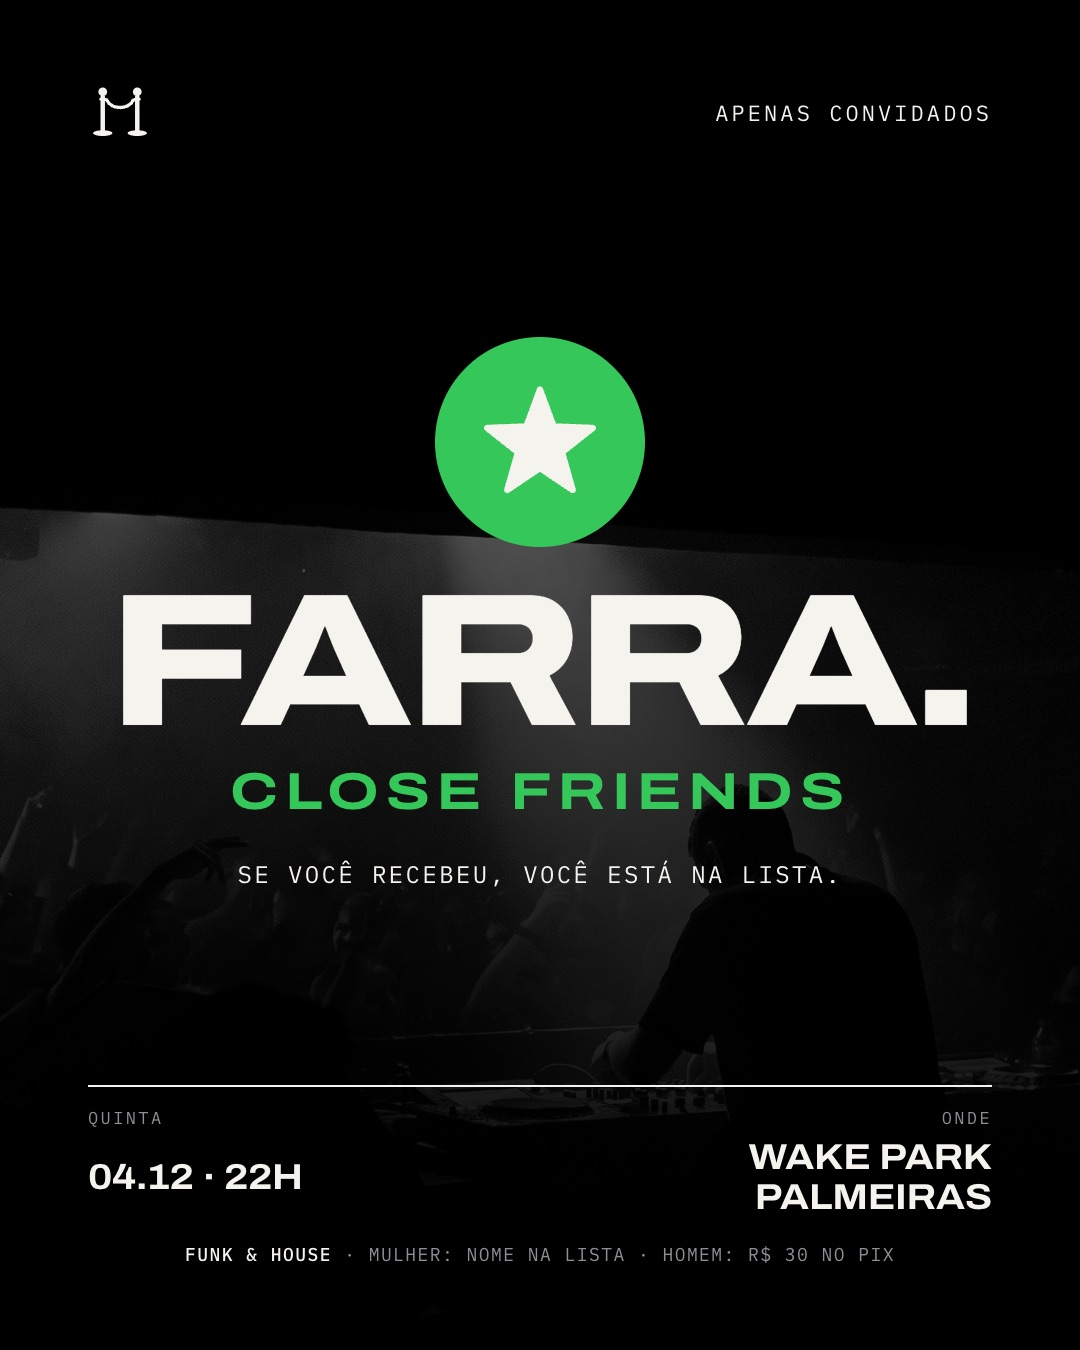
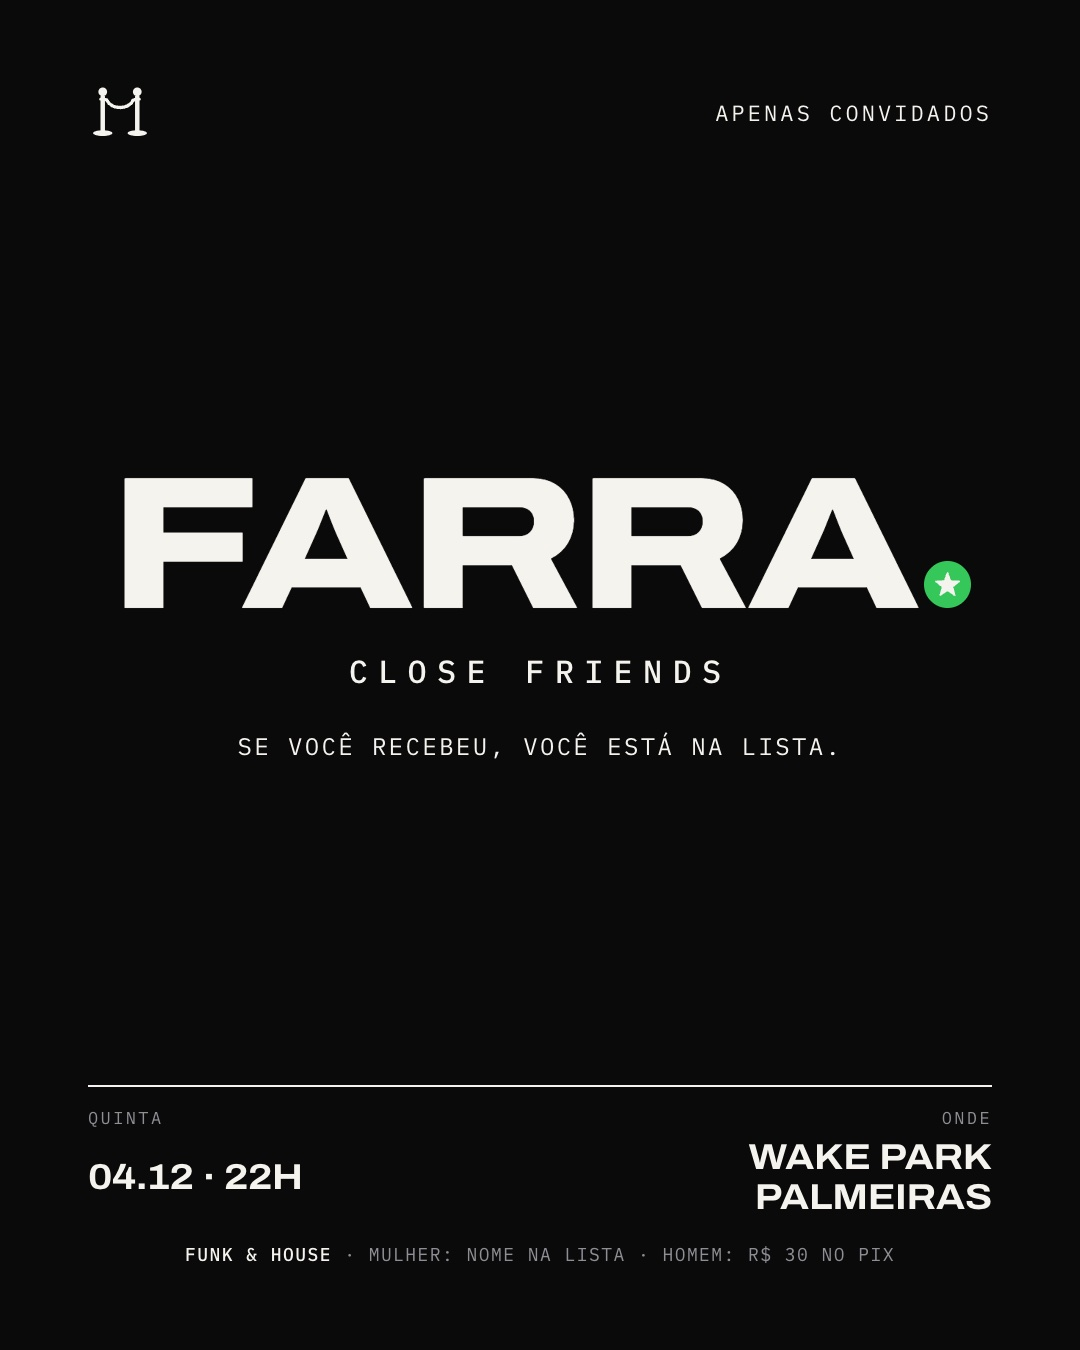
Farra Close Friends: ponto do wordmark vira o símbolo do close friends
Visual mais minimalista: sai a estrela grande e a foto de fundo, o ponto
de FARRA. passa a ser o círculo verde com estrela. A página também já
traz o envio à planilha, desligado até a URL do Apps Script entrar.

Changed region(s): [[0.0, 0.2489, 0.9167, 0.6533]]

diff --git a/public/previews/farra-close-friends/index.html b/public/previews/farra-close-friends/index.html
@@ -18,17 +18,16 @@
   :root { --preto:#0A0A0A; --carvao:#161618; --fumaca:#2A2A2D; --cinza:#8E8E93; --papel:#F5F3EE; --verde:#35C759; color-scheme: dark; }
   * { box-sizing: border-box; margin: 0; }
   body { background: var(--preto); color: var(--papel); font-family: "Archivo", "Helvetica Neue", Arial, sans-serif; font-size: 16px; line-height: 1.5; -webkit-font-smoothing: antialiased; min-height: 100svh; }
-  .fundo { position: fixed; inset: 0; background: url(/previews/farra-close-friends/fundo.jpg) 60% center/cover; filter: grayscale(1) contrast(1.1) brightness(.35); z-index: -1; }
-  .fundo::after { content: ""; position: absolute; inset: 0; background: linear-gradient(180deg, rgba(10,10,10,.85), rgba(10,10,10,.5) 40%, rgba(10,10,10,.95)); }
   main { max-width: 480px; margin: 0 auto; padding: 32px 16px 48px; display: grid; gap: 32px; }
   .mono { font-family: "IBM Plex Mono", Menlo, monospace; font-size: 13px; letter-spacing: .12em; text-transform: uppercase; }
   .topo { display: flex; justify-content: space-between; align-items: center; }
   .topo svg { width: 36px; height: 36px; color: var(--papel); }
 
   .capa { display: grid; justify-items: center; text-align: center; gap: 14px; padding-top: 16px; }
-  .capa .estrela { width: 88px; height: 88px; }
+  /* O ponto do wordmark é o símbolo do close friends. */
+  .ponto { width: .25em; height: .25em; margin-left: .05em; vertical-align: baseline; }
   h1 { font-stretch: 125%; font-weight: 800; letter-spacing: -.035em; line-height: .85; font-size: clamp(64px, 21vw, 104px); text-transform: uppercase; margin-top: 8px; }
-  .cf { font-stretch: 125%; font-weight: 700; font-size: clamp(20px, 6.4vw, 30px); letter-spacing: .12em; text-transform: uppercase; color: var(--verde); }
+  .cf { font-family: "IBM Plex Mono", Menlo, monospace; font-weight: 500; font-size: clamp(15px, 4.6vw, 20px); letter-spacing: .32em; text-transform: uppercase; }
   .capa .mono { color: var(--papel); margin-top: 6px; }
 
   .dados { display: grid; grid-template-columns: 1fr 1fr; border-top: 1px solid var(--papel); padding-top: 14px; gap: 12px; }
@@ -67,7 +66,6 @@
 </style>
 </head>
 <body>
-<div class="fundo" aria-hidden="true"></div>
 <main>
   <div class="topo">
     <svg viewBox="0 0 100 100" role="img" aria-label="Farra">
@@ -79,11 +77,7 @@
   </div>
 
   <header class="capa">
-    <svg class="estrela" viewBox="0 0 100 100" aria-hidden="true">
-      <circle cx="50" cy="50" r="50" fill="#35C759"/>
-      <polygon points="50,25 56.5,42.6 75.2,43.3 60.5,54.9 65.6,72.9 50,62.4 34.4,72.9 39.5,54.9 24.8,43.3 43.5,42.6" fill="#F5F3EE" stroke="#F5F3EE" stroke-width="3" stroke-linejoin="round"/>
-    </svg>
-    <h1>Farra.</h1>
+    <h1>Farra<svg class="ponto" viewBox="0 0 100 100" aria-label="."><circle cx="50" cy="50" r="50" fill="#35C759"/><polygon points="50,25 56.5,42.6 75.2,43.3 60.5,54.9 65.6,72.9 50,62.4 34.4,72.9 39.5,54.9 24.8,43.3 43.5,42.6" fill="#F5F3EE" stroke="#F5F3EE" stroke-width="3" stroke-linejoin="round"/></svg></h1>
     <p class="cf">Close Friends</p>
     <p class="mono">Se você recebeu, você está na lista.</p>
   </header>
@@ -129,6 +123,8 @@
 <script>
   // WhatsApp da Mouve, que recebe as confirmações e os comprovantes.
   const WHATSAPP = "5534984251140";
+  // App da web do Apps Script que grava a lista na planilha "FARRA. Close Friends 04-12 - Lista" (Drive da mouvecreative).
+  const PLANILHA = "URL_DO_SCRIPT";
   const form = document.getElementById("lista");
   const erro = document.getElementById("erro");
   const enviar = document.getElementById("enviar");
@@ -146,7 +142,10 @@
     catch { e.target.textContent = "Segure e copie"; }
   });
 
-  form.addEventListener("submit", (e) => {
+  // Quem volta do WhatsApp pelo botão de voltar encontra o botão liberado de novo.
+  addEventListener("pageshow", () => { enviar.disabled = false; form.dispatchEvent(new Event("change")); });
+
+  form.addEventListener("submit", async (e) => {
     e.preventDefault();
     const tipo = form.tipo.value;
     const nome = form.nome.value.trim().replace(/\s+/g, " ");
@@ -155,6 +154,14 @@
     const texto = tipo === "homem"
       ? `Oi! Fiz o Pix de R$ 30 da FARRA. Close Friends (quinta 04/12, Wake Park Palmeiras). Nome para a lista: ${nome}. Segue o comprovante:`
       : `Oi! Quero meu nome na lista da FARRA. Close Friends (quinta 04/12, Wake Park Palmeiras). Nome: ${nome}`;
+    // Grava na planilha antes de abrir o WhatsApp. Se a planilha demorar ou falhar,
+    // segue para o WhatsApp mesmo assim: a mensagem lá continua valendo como confirmação.
+    enviar.disabled = true;
+    enviar.textContent = "Enviando...";
+    await Promise.race([
+      PLANILHA.startsWith("https://") && fetch(PLANILHA, { method: "POST", mode: "no-cors", keepalive: true, body: JSON.stringify({ tipo, nome }) }).catch(() => {}),
+      new Promise((r) => setTimeout(r, 2500)),
+    ]);
     location.href = `https://wa.me/${WHATSAPP}?text=${encodeURIComponent(texto)}`;
   });
 </script>
